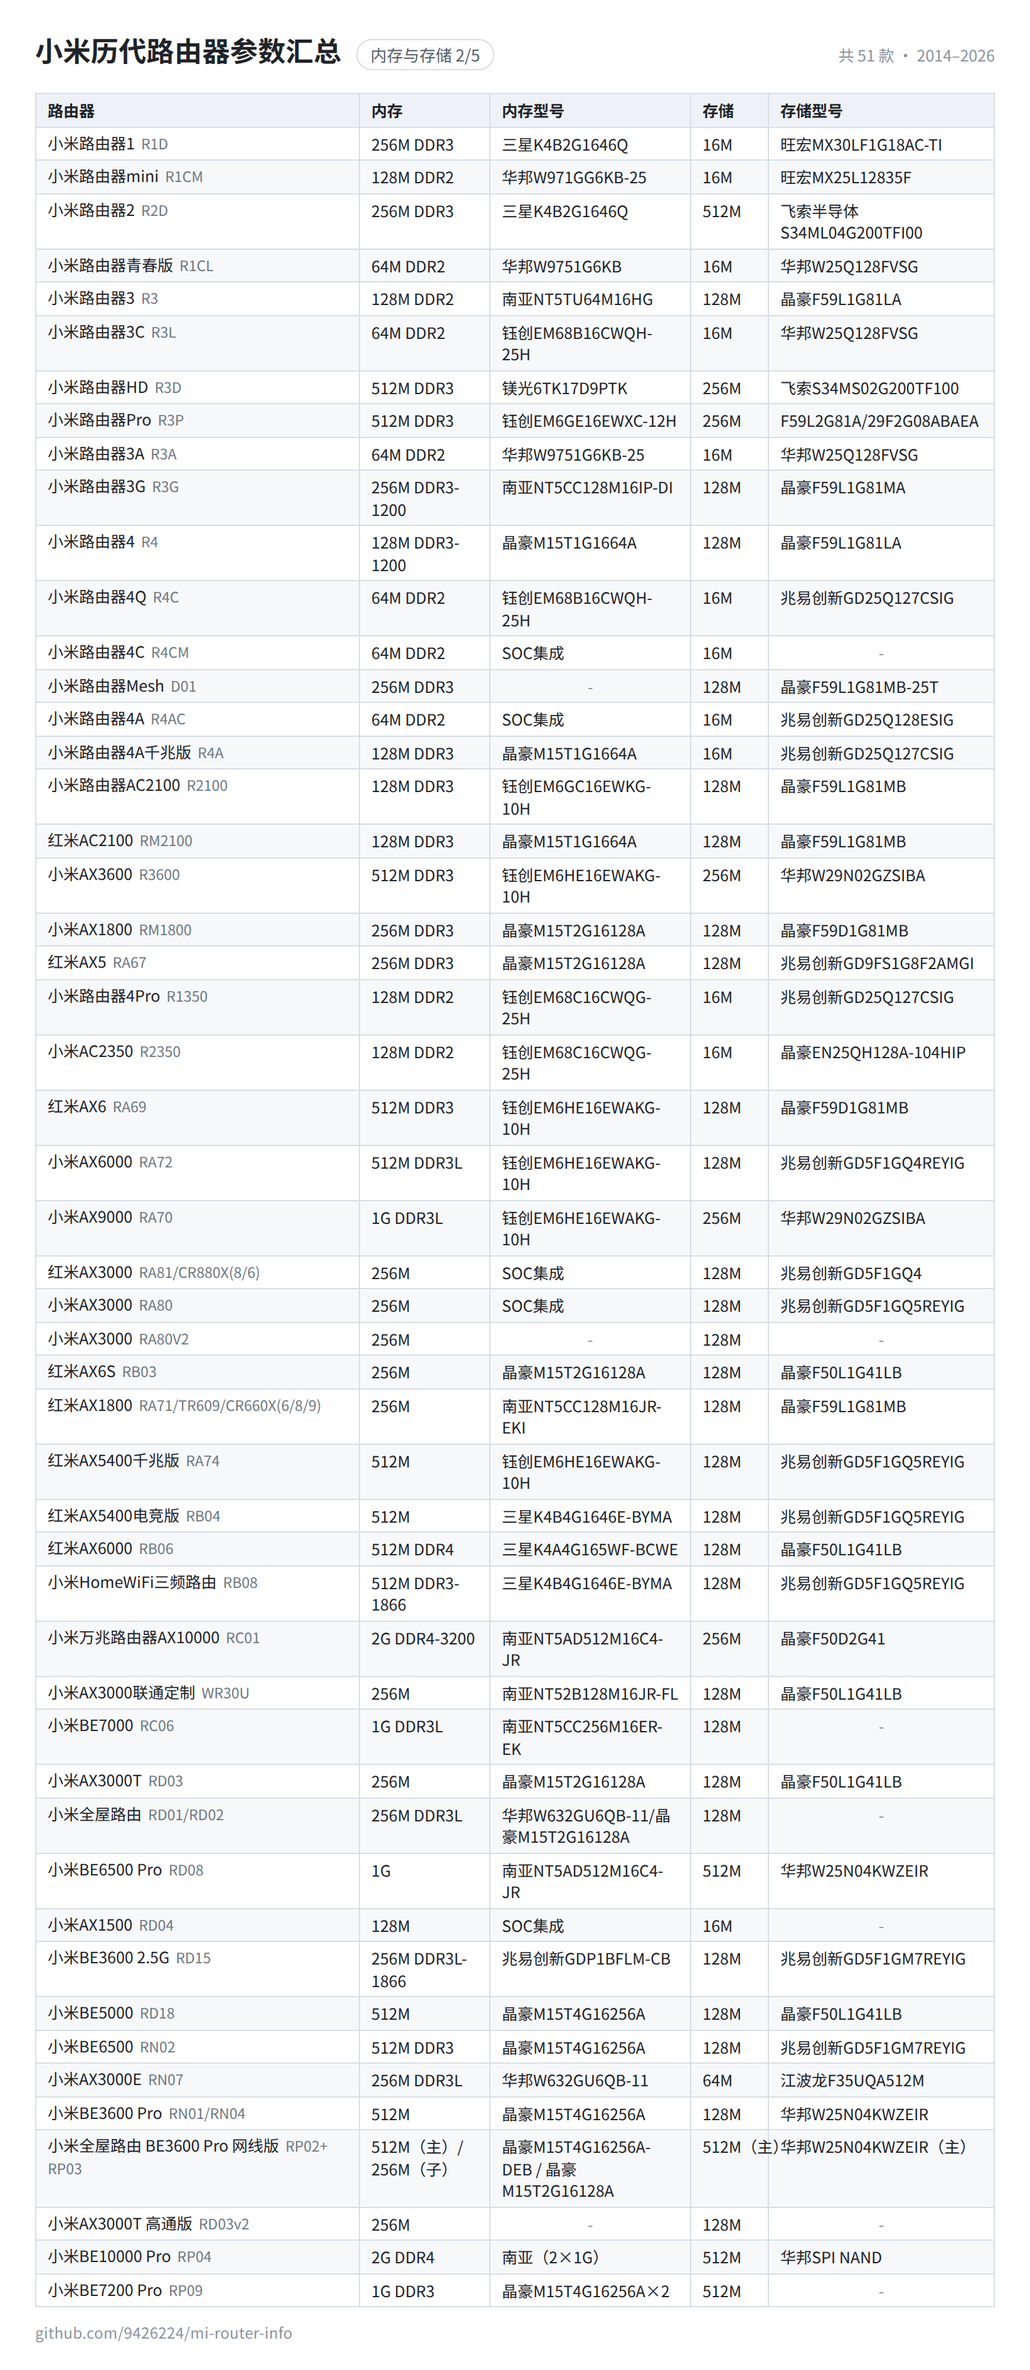
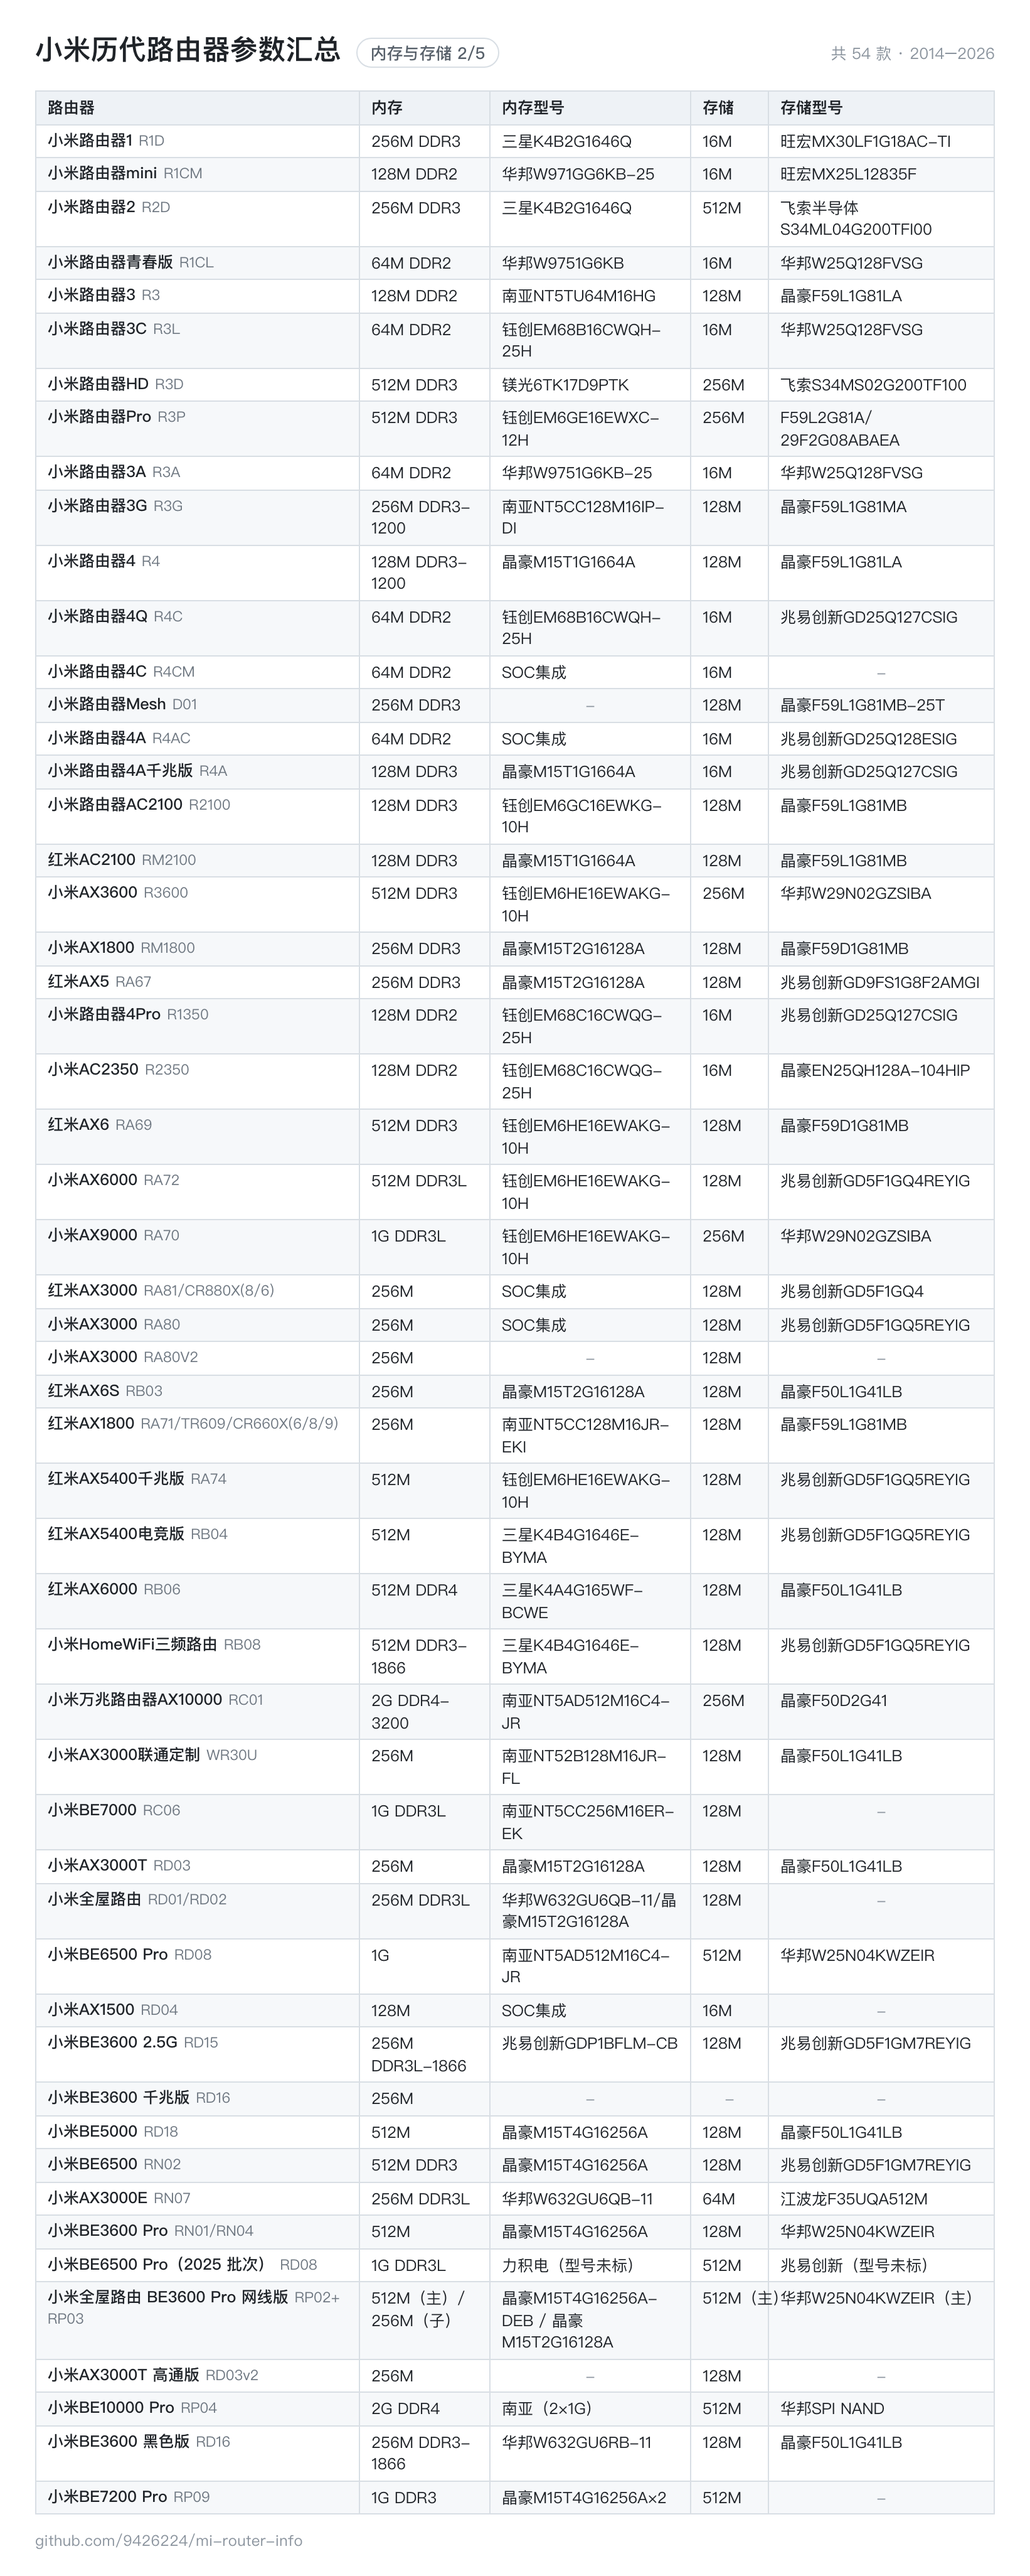
feat: 收录换料批次并新增备注列 (v0.5.0)
- 新增「备注」列（共 22 列），记录批次、换料和来源提示；仅一图流与网页全部列展示
- 新增 3 行：BE3600 千兆版（RD16，2024.4 高通）、BE3600 黑色版（RD16，AN7563PT）、BE6500 Pro 2025.4 换料批次
- BE6500 Pro 初版与 2025 批次分开：内存南亚→力积电、闪存华邦→兆易创新、FEM 高通→无标、散热片减重约 41%
- 重写 docs/variants.md：BE3600 三种硬件、AX3000T v1/v2/v3、BE6500 Pro 换料细节
- 主表 54 款型号，版本 0.5.0

Changed region(s): [[0.0311, 0.0, 0.6523, 1.0], [0.6833, 0.0, 0.9629, 0.9688], [0.9318, 0.0, 0.9629, 0.0312]]

diff --git a/docs/variants.md b/docs/variants.md
@@ -1,28 +1,31 @@
 # 硬件批次与版本差异
 
-同名产品换硬件的情况不少，表格只记录主批次。买二手或对比参数前，先看这一页确认批次。
+同名产品换硬件的情况不少。主表对配置差异大的批次单独占一行，这里补充批次识别、换料细节和来源。购买二手或对比参数前，先看这一页确认批次。
 
 ## 小米 BE3600 系列
 
-| 版本         | 型号        | 网口          | 主控          | 无线                                       | 备注                                   |
-| ------------ | ----------- | ------------- | ------------- | ------------------------------------------ | -------------------------------------- |
-| 白色 2.5G 版 | RD15        | 1×2.5G + 3×1G | IPQ5312 四核  | 2.4G 2x2 688M + 5G 2x2 2882M，4 颗独立 FEM | 表中记录的版本，2024.1 上市            |
-| 白色千兆版   | RD16        | 4×1G          | 高通四核      | 同 2.4G/5G 规格，无 2.5G 口                | 2024.4 上市，首发 229 元               |
-| 黑色版       | RD16        | 4×1G          | 达发 AN7563PT | 2.4G/5G 用 MT7990AN + MT7976CN，FEM 集成   | 后期批次，功耗更低，固件与 RD15 不通用 |
-| Pro          | RN01 / RN04 | 1×2.5G + 3×1G | IPQ5312       | 同 2.5G 版，带蓝牙网关/中枢网关            | 单只 349 元，套装 699 元               |
+| 版本         | 型号        | 网口          | 主控                       | 无线                                       | 备注                                                 |
+| ------------ | ----------- | ------------- | -------------------------- | ------------------------------------------ | ---------------------------------------------------- |
+| 白色 2.5G 版 | RD15        | 1×2.5G + 3×1G | IPQ5312 四核 1.1GHz        | 2.4G 2x2 688M + 5G 2x2 2882M，4 颗独立 FEM | 2024.1 上市，主表单独一行                            |
+| 白色千兆版   | RD16        | 4×1G          | 高通四核 1.1GHz（IPQ5312） | 同 2.4G/5G 规格，无 2.5G 口                | 2024.4 上市，首发 229 元；主表单独一行               |
+| 黑色版       | RD16        | 4×1G          | 达发 AN7563PT 双核 1GHz    | MT7990AN + MT7976CN，FEM 集成              | 后期批次，功耗更低，固件与 RD15 不通用；主表单独一行 |
+| Pro          | RN01 / RN04 | 1×2.5G + 3×1G | IPQ5312                    | 同 2.5G 版，带蓝牙网关/中枢网关            | 单只 349 元，套装 699 元                             |
 
-来源：[BE3600 RD15 拆机](https://www.acwifi.net/26827.html)、[1.25A 版本](https://www.acwifi.net/34321.html)、[黑色版拆机](https://www.acwifi.net/34369.html)、[千兆版上市](https://article.pchome.net/n2_22/s1/2.html)、[版本对比](https://www.shunot.com/miwifi/954.html)。
+RD16 的千兆版和黑色版型号相同但主控完全不同：前者是高通四核，后者是达发 AN7563PT + MT7990AN；两者固件也不能与 RD15 互刷。
+
+来源：[BE3600 RD15 拆机](https://www.acwifi.net/26827.html)、[1.25A 版本](https://www.acwifi.net/34321.html)、[黑色版拆机](https://www.acwifi.net/34369.html)、[千兆版上市](https://www.pcpop.com/article/6845304.shtml)、[版本对比](https://www.shunot.com/miwifi/954.html)。
 
 ## 小米 AX3000T
 
-| 版本     | 型号   | 主控    | 2.4G FEM  | 5G FEM    | 备注                      |
-| -------- | ------ | ------- | --------- | --------- | ------------------------- |
-| 联发科版 | RD03   | MT7981B | 集成      | 集成      | 2023.8 上市，可刷 OpenWrt |
-| 高通版   | RD03v2 | IPQ5018 | VC5421-11 | KCT8546SE | 2025.6 起换方案，带 NFC   |
+| 版本 | 型号   | 主控    | 交换/存储/内存 | 备注                                                           |
+| ---- | ------ | ------- | -------------- | -------------------------------------------------------------- |
+| v1   | RD03   | MT7981B | 原版料         | 2023.8 上市，可刷 OpenWrt，支持小米 WiFi App                   |
+| v2   | RD03   | MT7981B | 已换料         | 仍为联发科方案，但交换芯片、闪存、内存均已更换；具体料号未确认 |
+| v3   | RD03v2 | IPQ5018 | 256M / 128M    | 2025.6 起换高通方案，散热缩水，仅米家 App；主表单独一行        |
 
-高通版内存 256MB、闪存 128MB，和联发科版一致；无线规格同为 AX3000，但固件不通用。
+v1 与 v2 外观、型号相同，只能通过批次或拆机区分；v2 的固件与早期版本不完全通用。v3 是另一套高通方案，内存/闪存容量相同，但 CPU 从四核 1.3GHz 降到双核 1GHz。
 
-来源：[高通版拆机](https://www.acwifi.net/32952.html)、[OpenWrt RD03v2](https://github.com/ADCDS/openwrt-xiaomi-ax3000t-rd03v2)。
+来源：[高通版拆机](https://www.acwifi.net/32952.html)、[OpenWrt RD03v2](https://github.com/ADCDS/openwrt-xiaomi-ax3000t-rd03v2)、[换料讨论](https://bbs.nga.cn/read.php?tid=44508372)。
 
 ## 小米 BE6500 / BE6500 Pro
 
@@ -33,7 +36,15 @@
 
 BE6500 可以看作去掉网关、增加外置天线的版本，5G 都是 QCN6224 4x4。
 
-来源：[BE6500 拆机](https://www.acwifi.net/30388.html)、[BE6500 Pro 拆机](https://www.acwifi.net/27123.html)。
+BE6500 Pro 在 2025 年出现过换料批次，包装、标签和型号都不变：
+
+- 内存从南亚换成力积电，闪存从华邦换成兆易创新，FEM 从高通换成无标型号。
+- 散热片由 254g 减到 149g，减重约 41%。
+- 主控、1GB 内存、4 个 2.5G 口和无线规格不变，但长时间负载下的散热余量变小。
+
+主表把 2023 初版和 2025.4 起批次分开记录，购买二手或对比时以批次为准。
+
+来源：[BE6500 拆机](https://www.acwifi.net/30388.html)、[BE6500 Pro 拆机](https://www.acwifi.net/27123.html)、[换料报道](https://www.eet-china.com/news/202507092957.html)。
 
 ## 小米万兆 AX10000 与 BE10000 Pro
 

diff --git a/docs/gaps.md b/docs/gaps.md
@@ -32,12 +32,10 @@
 
 主表一行只记一个主批次，下面这些在 [variants.md](variants.md) 里有说明，但没有单独占一行：
 
-- 小米BE3600 千兆版（RD16，2024.4 上市，首发 229 元）与后期黑色版（达发 AN7563PT、FEM 集成）。
-- 小米AX3000T 的 v2（换交换/闪存/内存料）和 v3（高通 IPQ5018 方案）。
-- 小米BE6500 Pro 的后期缩水批次。
-- 小米BE3600 Pro 的黑色/单只/套装差异。
-
-这些批次如果要进主表，需要先确认各自的完整配置，否则会和主批次混在一起。
+- 小米AX3000T 的 v2（仍为 MT7981B，但交换/闪存/内存换料，具体料号未确认）目前只记在 variants.md，没有单独进主表。
+- 小米BE6500 Pro 的 2025.4 起批次已单独进主表；更晚的批次是否还有换料，暂无资料。
+- 小米BE3600 千兆版（RD16，2024 高通）与黑色版（AN7563PT）都已单独进主表；黑色批次的首销日期按 2025.11 估算，拆机时间为 2026.6。
+- 小米BE3600 Pro 的单只/套装硬件相同，只在备注里区分。
 
 ## 可以新增的维度
 

diff --git a/CHANGELOG.md b/CHANGELOG.md
@@ -1,5 +1,15 @@
 # 更新记录
 
+## 0.5.0 - 2026-11-23
+
+把缩水/换料批次收进主表，并新增备注列。
+
+- 新增「备注」列（共 22 列），记录批次差异、换料说明和数据来源提示；仅一图流和网页「全部列」展示
+- 新增 3 行：小米 BE3600 千兆版（RD16，2024.4 高通方案）、小米 BE3600 黑色版（RD16，AN7563PT）、小米 BE6500 Pro（2025.4 起换料批次）
+- BE6500 Pro 初版与 2025 批次分开记录：内存南亚→力积电、闪存华邦→兆易创新、FEM 高通→无标、散热片减重约 41%
+- 重写 docs/variants.md：补齐 BE3600 三种硬件、AX3000T v1/v2/v3、BE6500 Pro 换料细节与来源
+- 主表现有 54 款型号
+
 ## 0.4.2 - 2026-11-23
 
 补齐一处闪存并整理已知缺口。

diff --git a/docs/design.md b/docs/design.md
@@ -10,12 +10,12 @@
 
 ## 数据源
 
-`data/routers.csv`，UTF-8、逗号分隔、首行为中文表头，目前 21 列：
+`data/routers.csv`，UTF-8、逗号分隔、首行为中文表头，目前 22 列：
 
 ```
 路由器名称, 型号, 上市时间, SOC, 频率/架构, NPU/加速, 内存, 内存型号, 存储, 存储型号,
 2.4G 芯片, 2.4G FEM, 2.4G 无线, 5G 芯片, 5G FEM, 5G 无线, 天线, 其他功能芯片,
-背板网口, USB/SATA, 交换/PHY
+背板网口, USB/SATA, 交换/PHY, 备注
 ```
 
 选择 CSV 的原因：Excel / WPS / Numbers 可直接编辑，git diff 逐行可读，脚本解析成本低；表头即字段名，不需要额外 schema 文件。

diff --git a/docs/contributing.md b/docs/contributing.md
@@ -39,6 +39,7 @@
 | 背板网口               | 网口组合                          | 2.5G×1 + 1G×3                                             |
 | USB/SATA               | 接口                              | USB3.0                                                    |
 | 交换/PHY               | 交换芯片或 PHY                    | QCA8337-AL3C + QCA8081                                    |
+| 备注                   | 批次差异、换料或来源说明          | 2025.4 起批次：内存改力积电                               |
 
 约定：
 

diff --git a/README.md b/README.md
@@ -10,7 +10,7 @@
 
 <!-- STATS:START -->
 
-**51 款型号** · 上市时间 2014–2026 · 21 项参数 · 数据源 [`data/routers.csv`](data/routers.csv)
+**54 款型号** · 上市时间 2014–2026 · 22 项参数 · 数据源 [`data/routers.csv`](data/routers.csv)
 <!-- STATS:END -->
 
 ## 图片版
